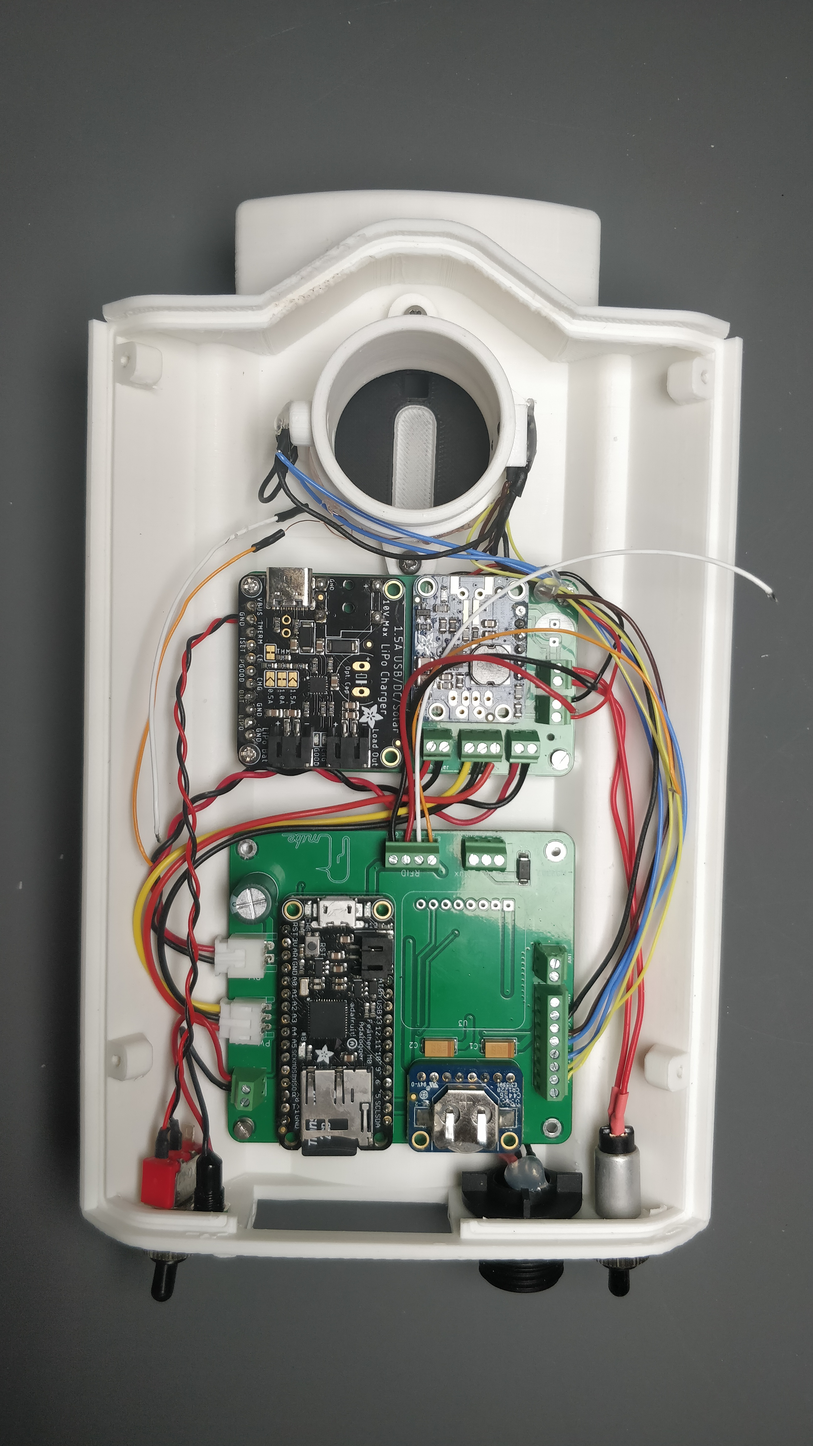
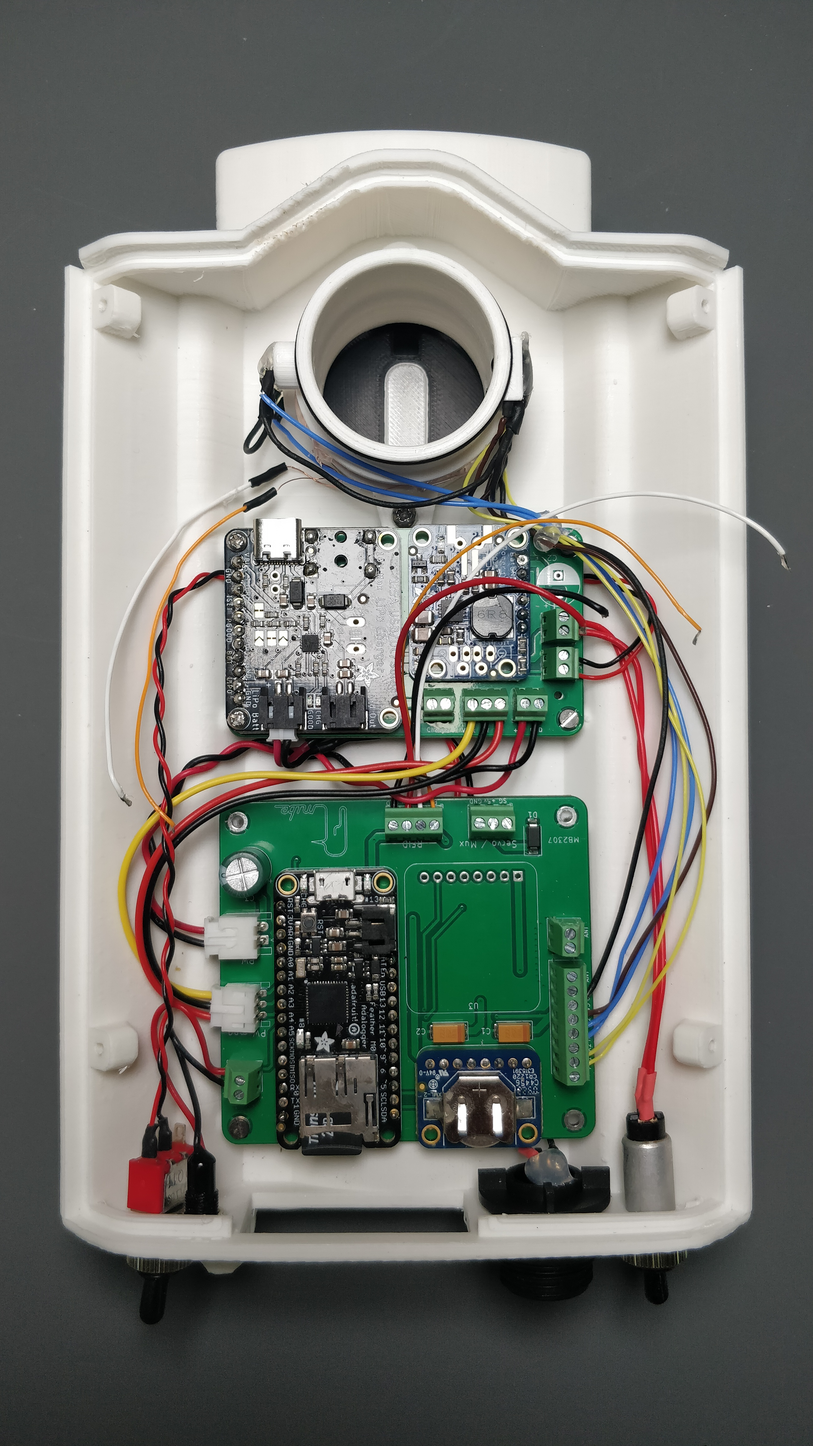
Correction of USB wiring instructions for nest box

diff --git a/docs/Nest_box_assembling.md b/docs/Nest_box_assembling.md
@@ -17,7 +17,7 @@ To follow these steps, it's required to have already realized a [nest box antenn
 ## Step 2 : Prepare the case
 
 * Solder the main button switch (bistable) and the switch button (monostable) to free wire end : Let ~10cm and ~20cm of wire respectively.
-* Solder the USB connecter to free wire end : Let ~10cm of wire
+* Solder the USB connecter to a JST connector. let ~15cm of wire
 * Install the two buttons on the lower case. Add two switch sealing boots with their seals.
 * Install the USB connector and its seal
 * Install the red led and its seal on the lower case
@@ -40,7 +40,7 @@ To follow these steps, it's required to have already realized a [nest box antenn
 ## Step 3 : Add electronic boards & wiring
 
 * Install the power board into the lower case and fix it with 2 x M2 L8 screws + 2 x M2 L10 screws
-* Connect the USB wires to the 2 ways screw terminal block 'charger'. **Ensure to respect the polarity**
+* Connect the USB wires to the 'Batt' connector of the solar charger
 * Connect the switch button to the 2 ways screw terminal block 'SW'
 * Connect the main button switch  to the 2 ways screw terminal block 'On / Off'
 
